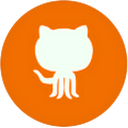
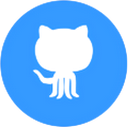
responsive

diff --git a/client/src/components/common/Pagination/Pagination.module.css b/client/src/components/common/Pagination/Pagination.module.css
@@ -4,10 +4,10 @@
   align-items: center;
   margin: 1em;
 
-  font-size: 12px;
+  font-size: 15px;
   font-weight: bold;
   line-height: 2em;
-  color: #fff;
+  color: var(--color1);
 }
 
 .pagination_container > ul {
@@ -30,6 +30,7 @@
   border-radius: .5em;
 }
 .prev{
+  color: #fff;
   width: 4.5em;
   margin: 0 .3em 0 .3em;
   border: 1px solid #fff;
@@ -37,6 +38,7 @@
   background-color: var(--color1);
 }
 .next{
+  color: #fff;
   width: 4.5em;
   margin: 0 .3em 0 .3em;
   border: 1px solid #fff;
@@ -53,12 +55,12 @@
   .numb:hover,
   .pagination_container > ul > li:first-child:hover,
   .pagination_container > ul > li:last-child:hover{
-    color: #fff;
+    color: var(--color5);
     background-color: var(--color2);
   }
 }
 
-@media (hover: none) {
+/* @media (hover: none) {
   .pagination_container > ul {
     border: 1px solid rgba(128, 128, 128, 0.252);
   }
@@ -78,12 +80,12 @@
   .next:focus, .prev:focus, .active:focus {
     outline: none;
   }
-}
+} */
 
 /*small sm*/
 @media screen and (min-width: 576px) and (max-width: 767px) {
   .pagination_container {
-    font-size: 14px;
+    font-size: 15px;
   }
 }
 /*medium md*/

diff --git a/client/src/components/Home/Contents/Filters/Filters.module.css b/client/src/components/Home/Contents/Filters/Filters.module.css
@@ -1,26 +1,22 @@
 .container {
-  /* width: 0; */
   width: 12em;
   height: 0;
   position: absolute;
   pointer-events: none;
   opacity: 0;
   overflow: hidden;
-  top: 2.5em;
+  top: 6.5em;
   right: 0;
-  z-index: 1;
+  z-index: 3;
   color: #fff;
   background-color: var(--color1);
   font-family: 'Concert One';
-  font-size: 12px;
-  /* display: none; */
+  font-size: 15px;
   transition: height .5s ease, background-color .5s ease, opacity .5s ease;
-
 }
 .open_container {
-
   height: calc(100vh - 3.5em - 2.5em - 3em);
-   background-color: var(--color1);
+  background-color: var(--color1);
   pointer-events: all;
   opacity: 1;
 }
@@ -105,14 +101,17 @@
   opacity: 1;
 }
 
+@media screen and (max-width: 575px) {
+  .container {
+    display: none;
+  }
+}
 /*small sm*/
 @media screen and (min-width: 576px) and (max-width: 767px) {
-  .container {
-    font-size: 14px;
-  }
+
   .filters__actives .filter__active span {
     max-width: 9em;
-    font-size: .8rem;
+    font-size: 1rem;
   }
 }
 /*medium md*/

diff --git a/client/src/components/common/Header/Header.module.css b/client/src/components/common/Header/Header.module.css
@@ -16,7 +16,9 @@
 .current_page {
   border-bottom: 2px solid #fff;
 }
-
+.current_page:hover {
+  border-bottom: 2px solid var(--color4);
+}
 .logo{
   margin: 0;
   padding: 0;
@@ -79,7 +81,8 @@
 }
 
 .btn_log:hover {
-  opacity: .8;
+  background-color: var(--color3);
+  color: #fff !important;
 }
 
 .container > form{
@@ -113,7 +116,7 @@
   z-index: -1;
   border: 10px solid transparent;
   border-bottom-color: var(--color2);
-  margin: -.8em .5em; 
+  margin: -.8em .5em;
 }
 .container > form:after{
   position: absolute;
@@ -144,7 +147,7 @@
   height: calc(100% - 6px);
   margin: 3px;
   padding: 0 1em;
-  color: #fff;
+  color: var(--color4);
   background: var(--color1);
   border: none;
   border-radius: 2px;

diff --git a/client/src/components/Home/Contents/StatusFilters/StatusFilters.module.css b/client/src/components/Home/Contents/StatusFilters/StatusFilters.module.css
@@ -4,13 +4,11 @@
   justify-content: flex-end;
   width: 100%;
   position: absolute;
-  top: 0;
+  top: 4em;
   right: 0;
   color: #fff;
-  /* background-color: var(--color1); */
   font-family: 'Concert One';
-  font-size: 12px;
-  /* border-bottom: 1px solid var(--color4); */
+  font-size: 15px;
   z-index: 1;
   height: 2.5em;
 
@@ -81,11 +79,14 @@
   margin: 0 2px 0 5px;
 }
 
+@media screen and (max-width: 575px) {
+  .container {
+    display: none;
+  }
+}
 /*small sm*/
 @media screen and (min-width: 576px) and (max-width: 767px) {
-  .container {
-    font-size: 14px;
-  }
+
   .filters__actives .filter__active span {
     max-width: 9em;
     font-size: .8rem;

diff --git a/client/src/components/Home/Contents/Contents.module.css b/client/src/components/Home/Contents/Contents.module.css
@@ -4,16 +4,21 @@
   align-items: center;
   justify-content: center;
   max-width: 100vw;
-  margin: 4em .5em .5em .5em;
-  min-height: calc(100vh - 3.5em - 2.5em - 2.5em);
+  margin: 0;
+  padding-top: 4em;
+  min-height: 100vh;
   font-size: 12px;
   position: relative;
+  background-image: url("../../../assets/img/background.jpg");
+  background-repeat: no-repeat;
+  background-size: cover;
+  background-attachment:fixed;
 }
 
 .btn__new_deck {
   z-index: 3;
   position: absolute;
-  top: 0;
+  top: 4em;
   left: 0;
   background-color: var(--color1);
   padding: 0 1em 0 1em;

diff --git a/client/src/style/index.css b/client/src/style/index.css
@@ -1,10 +1,16 @@
 @import url(./normalize.css);
 @import url(./bg-types.css);
 :root {
-  --color1: #be0001;
+  /* --color1: #be0001;
   --color2: #f88921fe;
   --color3: #f3c75f;
-  --color4: #e9cfaa;
+  --color4: #e9cfaa; */
+
+  --color1: #0c478a;
+  --color2: #0a5f9e;
+  --color3: #0986b4;
+  --color4: #07bec5;
+  --color5: #03fdbc;
 }
 a {
   text-decoration: none;

diff --git a/client/src/components/Ranking/Ranking.module.css b/client/src/components/Ranking/Ranking.module.css
@@ -8,6 +8,10 @@
   flex-wrap: wrap;
   justify-content: center;
   position: relative;
+  background-image: url("../../assets/img/background.jpg");
+  background-repeat: no-repeat;
+  background-size: cover;
+  background-attachment:fixed;
 }
 .card_container {
   margin: 1em;

diff --git a/client/src/components/Favorites/Favorites.module.css b/client/src/components/Favorites/Favorites.module.css
@@ -4,6 +4,10 @@
   flex-direction: column;
   min-height: 100vh;
   max-width: 100vw;
+  background-image: url("../../assets/img/background.jpg");
+  background-repeat: no-repeat;
+  background-size: cover;
+  background-attachment:fixed;
 }
 
 .container > h2 {

diff --git a/client/src/components/Details/Details.module.css b/client/src/components/Details/Details.module.css
@@ -10,6 +10,10 @@
   font-size: 14px;
   color: #fff;
   position: relative;
+  background-image: url("../../assets/img/background.jpg");
+  background-repeat: no-repeat;
+  background-size: cover;
+  background-attachment:fixed;
 }
 .btn__back {
   z-index: 3;

diff --git a/client/src/components/common/Card/Front/Front.module.css b/client/src/components/common/Card/Front/Front.module.css
@@ -11,7 +11,7 @@
   box-shadow: 4px 2px 9px rgb(52, 62, 63);
   transition: 0.2s;
   position: relative;
-  font-size: 12px;
+  font-size: 14px;
 }
 .container:hover {
   transform: scale(1.1);

diff --git a/client/src/components/common/Card/Back/Back.module.css b/client/src/components/common/Card/Back/Back.module.css
@@ -11,6 +11,7 @@
   box-shadow: 4px 2px 9px rgb(52, 62, 63);
   transition: 0.2s;
   position: relative;
+  font-size: 14px;
 }
 .container:hover {
   transform: scale(1.1);
